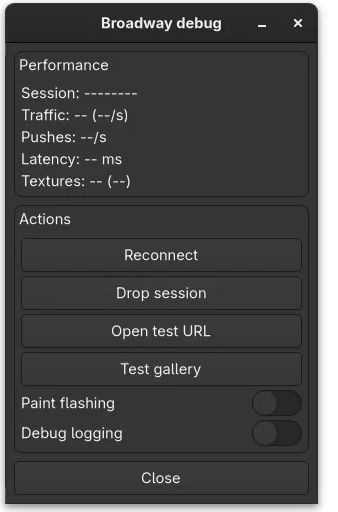
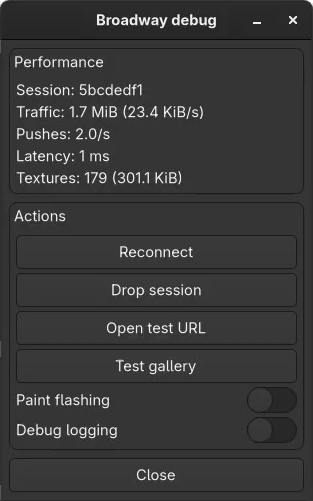
docs(debug-menu): float screenshot top-right, transparent bg, real stats

diff --git a/docs/src/internals/debug-menu.md b/docs/src/internals/debug-menu.md
@@ -6,8 +6,8 @@ A **Triple-Shift** (press Shift three times quickly) summons a server-side debug
 Broadway session: live stats, a paint-flash traffic profiler, and session actions. This is a native
 GTK4 window composited into the same display the main app uses.
 
-<img src="../images/debug-menu.png" alt="Broadway debug menu" width="320"
-  style="max-width:100%;border-radius:6px">
+<img src="../images/debug-menu.png" alt="Broadway debug menu" width="230"
+  style="float:right;width:230px;margin:0 0 1rem 1.5rem">
 
 > The menu binary (`gtk4-broadway-debugmenu`) is **local-dev only** - the `.deb` packs just
 > `libgtk-4.so` and `gtk4-broadwayd` ([CI & packaging](../build/ci.md)); `Dockerfile.local` installs
